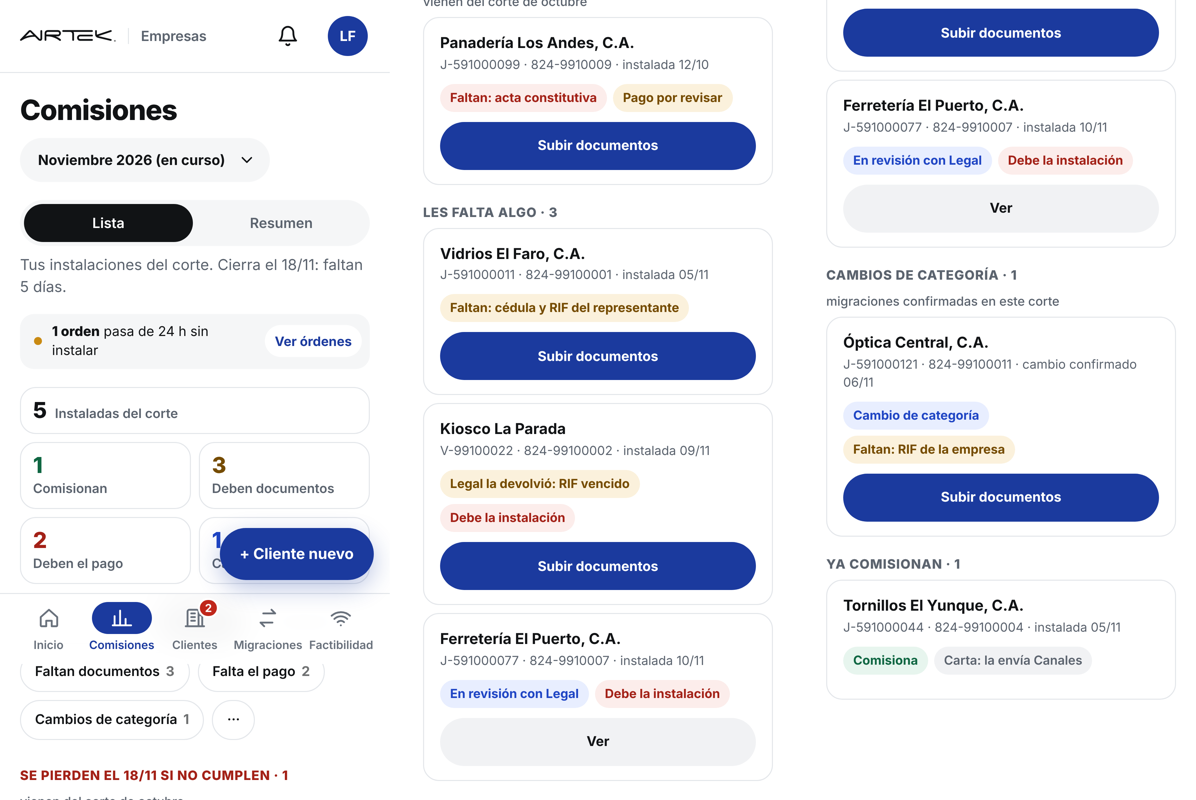
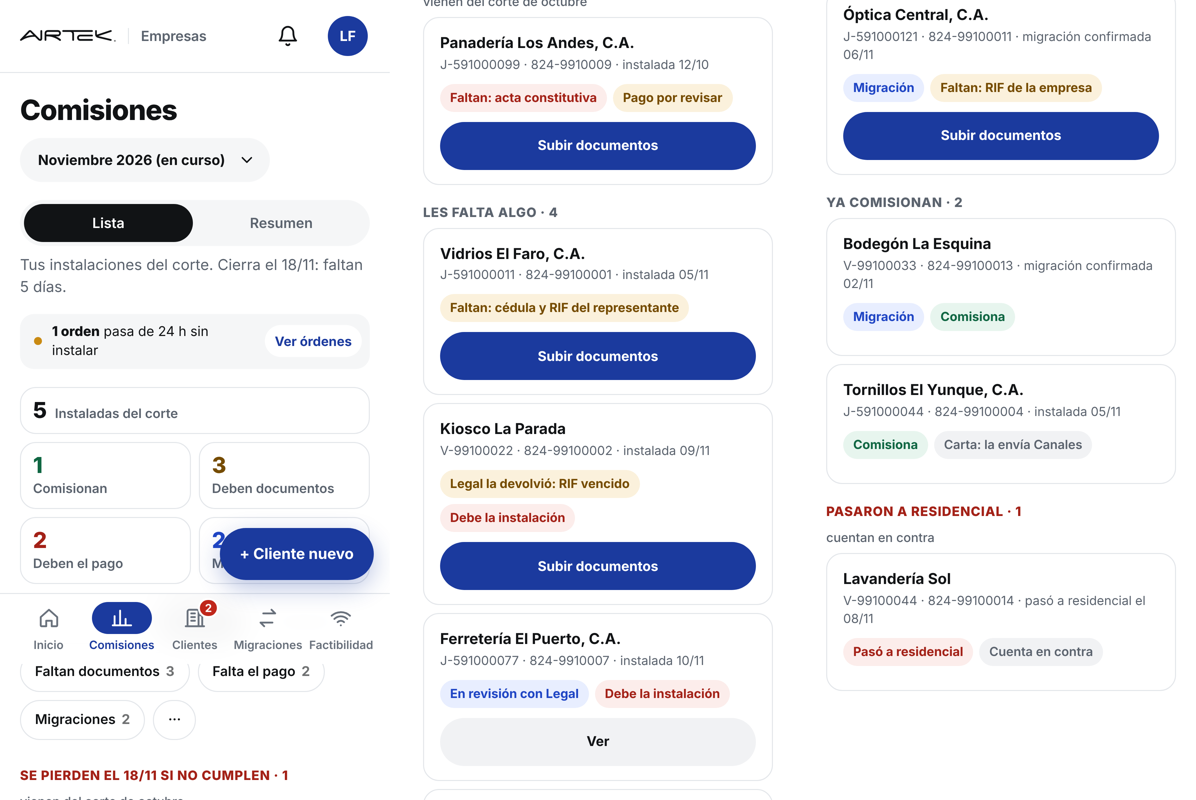
Lote 13/11: partes 11 y 12 (datos de Comisiones, vista del líder, migraciones en la lista y Resumen nuevo) con sus maquetas
Claude-Session: https://claude.ai/code/session_01CcbJae8p8qcayAbu3ytVhN

Changed region(s): [[0.6806, 0.25, 0.99, 0.8438], [0.6806, 0.0, 0.99, 0.2188], [0.0309, 0.875, 0.1547, 0.9062]]

diff --git a/claude/maquetas/obs-13nov/montar-lider-resumen.js b/claude/maquetas/obs-13nov/montar-lider-resumen.js
@@ -20,7 +20,7 @@ const CSS = `
 .zz-f .cl b{display:block;font-size:15px}.zz-f .cl small{display:block;font-size:12.5px;color:var(--text2);margin-top:2px}
 .zz-f .fa{display:flex;flex-wrap:wrap;gap:6px}
 .zz-c{height:28px;padding:0 10px;border-radius:99px;font-size:12.5px;font-weight:700;display:inline-flex;align-items:center;white-space:nowrap}
-.zz-c.am{background:#FBF1DC;color:#754B00}.zz-c.ro{background:#FCEDEB;color:#A32117}.zz-c.ve{background:#E7F5EE;color:#0F6642}.zz-c.az{background:#E8EEFF;color:#1F45C4}.zz-c.gr{background:#F1F2F4;color:var(--text2);font-weight:600}
+.zz-c.am{background:#FBF1DC;color:#754B00}.zz-c.ro{background:#FCEDEB;color:#A32117}.zz-c.ve{background:#E7F5EE;color:#0F6642}.zz-c.az{background:#E8EEFF;color:#1F45C4}.zz-c.mo{background:#F0EBFA;color:#5B3AA6}.zz-c.gr{background:#F1F2F4;color:var(--text2);font-weight:600}
 .zz-f .ac{display:flex;gap:8px;align-items:center}
 .zz-btn{height:40px;padding:0 16px;border-radius:99px;background:#1B3A9E;color:#fff;font-weight:700;font-size:13.5px;border:0;white-space:nowrap}
 .zz-btn.s{background:#F1F2F4;color:var(--text)}
@@ -78,16 +78,18 @@ const FILAS = [
   ['falta', 'Vidrios El Faro, C.A.', 'J-591000011 · 824-99100001 · instalada 05/11', ['<span class="zz-c am">Faltan: cédula y RIF del representante</span>'], 'docs'],
   ['falta', 'Kiosco La Parada', 'V-99100022 · 824-99100002 · instalada 09/11', ['<span class="zz-c am">Legal la devolvió: RIF vencido</span>', '<span class="zz-c ro">Debe la instalación</span>'], 'docs'],
   ['falta', 'Ferretería El Puerto, C.A.', 'J-591000077 · 824-9910007 · instalada 10/11', ['<span class="zz-c az">En revisión con Legal</span>', '<span class="zz-c ro">Debe la instalación</span>'], 'ver'],
-  ['mig', 'Óptica Central, C.A.', 'J-591000121 · 824-99100011 · cambio confirmado 06/11', ['<span class="zz-c az">Cambio de categoría</span>', '<span class="zz-c am">Faltan: RIF de la empresa</span>'], 'docs'],
+  ['falta', 'Óptica Central, C.A.', 'J-591000121 · 824-99100011 · migración confirmada 06/11', ['<span class="zz-c az">Migración</span>', '<span class="zz-c am">Faltan: RIF de la empresa</span>'], 'docs'],
+  ['ok', 'Bodegón La Esquina', 'V-99100033 · 824-99100013 · migración confirmada 02/11', ['<span class="zz-c az">Migración</span>', '<span class="zz-c ve">Comisiona</span>'], ''],
+  ['res', 'Lavandería Sol', 'V-99100044 · 824-99100014 · pasó a residencial el 08/11', ['<span class="zz-c ro">Pasó a residencial</span>', '<span class="zz-c gr">Cuenta en contra</span>'], ''],
   ['ok', 'Tornillos El Yunque, C.A.', 'J-591000044 · 824-99100004 · instalada 05/11', ['<span class="zz-c ve">Comisiona</span>', '<span class="zz-c gr">Carta: la envía Canales</span>'], ''],
 ];
 const fila = (f) => '<div class="zz-f"><div class="cl"><b>' + f[1] + '</b><small>' + f[2] + '</small></div><div class="fa">' + f[3].join('') + '</div><div class="ac">' +
   (f[4] === 'docs' ? '<button class="zz-btn">Subir documentos</button>' : f[4] === 'ver' ? '<button class="zz-btn s">Ver</button>' : '') + '</div></div>';
 const sec = (cls, t, sub, l) => '<div class="zz-sec"><h3 class="' + cls + '">' + t + ' · ' + l.length + (sub ? ' <small>' + sub + '</small>' : '') + '</h3>' + l.map(fila).join('') + '</div>';
-const LIDER = '<div class="zz-nums"><button class="zz-n"><b>5</b><span>Instaladas del corte</span></button><button class="zz-n ve"><b>1</b><span>Comisionan</span></button><button class="zz-n am"><b>3</b><span>Deben documentos</span></button><button class="zz-n ro"><b>2</b><span>Deben el pago</span></button><button class="zz-n az"><b>1</b><span>Cambios de categoría</span></button></div>' +
-  '<div class="zz-bus"><input class="campo" placeholder="Buscar cliente o código" aria-label="Buscar cliente o código"><span class="zz-pl on">Todas <i>6</i></span><span class="zz-pl">Comisionan <i>1</i></span><span class="zz-pl">Faltan documentos <i>3</i></span><span class="zz-pl">Falta el pago <i>2</i></span><span class="zz-pl">Cambios de categoría <i>1</i></span><span class="zz-pl" aria-label="Más">···</span></div>' +
+const LIDER = '<div class="zz-nums"><button class="zz-n"><b>5</b><span>Instaladas del corte</span></button><button class="zz-n ve"><b>1</b><span>Comisionan</span></button><button class="zz-n am"><b>3</b><span>Deben documentos</span></button><button class="zz-n ro"><b>2</b><span>Deben el pago</span></button><button class="zz-n az"><b>2</b><span>Migraciones</span></button></div>' +
+  '<div class="zz-bus"><input class="campo" placeholder="Buscar cliente o código" aria-label="Buscar cliente o código"><span class="zz-pl on">Todas <i>8</i></span><span class="zz-pl">Comisionan <i>1</i></span><span class="zz-pl">Faltan documentos <i>3</i></span><span class="zz-pl">Falta el pago <i>2</i></span><span class="zz-pl">Migraciones <i>2</i></span><span class="zz-pl" aria-label="Más">···</span></div>' +
   sec('ro', 'Se pierden el 18/11 si no cumplen', 'vienen del corte de octubre', FILAS.filter((f) => f[0] === 'pierde')) +
-  sec('', 'Les falta algo', '', FILAS.filter((f) => f[0] === 'falta')) + sec('', 'Cambios de categoría', 'migraciones confirmadas en este corte', FILAS.filter((f) => f[0] === 'mig')) + sec('', 'Ya comisionan', '', FILAS.filter((f) => f[0] === 'ok'));
+  sec('', 'Les falta algo', '', FILAS.filter((f) => f[0] === 'falta')) + sec('', 'Ya comisionan', '', FILAS.filter((f) => f[0] === 'ok')) + sec('ro', 'Pasaron a residencial', 'cuentan en contra', FILAS.filter((f) => f[0] === 'res'));
 const flecha = (up, t) => '<span class="zz-d ' + (up ? 'up' : 'dn') + '">' + (up ? '↑' : '↓') + ' ' + t + '</span>';
 const RES = '<div class="zz-r">' +
   '<div class="zz-gan"><div class="t">🏆 Ganadores de octubre <span style="font-weight:500;color:var(--text2)">· corte cerrado, por equipo</span></div><div><small>Ventas corporativas</small><b>Rosa Paredes</b><span>15 instaladas · 15 comisionan</span></div><div><small>Canales de atención</small><b>Pedro Salas</b><span>4 instaladas</span></div><div><small>Aliado comercial</small><b>Conexión Norte</b><span>2 instaladas</span></div></div>' +
@@ -100,9 +102,9 @@ const RES = '<div class="zz-r">' +
     '</div><div class="zz-ley"><span><i style="background:#0F6642"></i>Comisiona</span><span><i style="background:#8FD1AE"></i>Instalada, falta legal o pago</span></div></div>' +
   '<div class="zz-box"><h3>Equipos</h3><p class="sub">Este corte contra octubre, al mismo día del corte</p><div class="zz-eq">' +
     [['Ventas corporativas', 44, 4, 48, '↓ 8 %', 'dn'], ['Canales de atención', 1, 0, 6, '↓ 83 %', 'dn']].map((e) => '<div class="fi"><div class="h"><b>' + e[0] + '</b><span><b>' + e[1] + '</b> · octubre ' + e[3] + ' <span class="zz-d ' + e[5] + '">' + e[4] + '</span></span></div><div class="zz-bar"><i style="flex:' + e[2] + ';background:#1F45C4"></i><i style="flex:' + (e[1] - e[2]) + ';background:#A9BCF5"></i><i style="flex:' + Math.max(0, 60 - e[1]) + '"></i></div><div class="zz-bar prev"><i style="flex:' + e[3] + '"></i><i style="flex:' + (60 - e[3]) + ';background:none"></i></div></div>').join('') +
-    '<div class="fi zz-sep"><div class="h"><b>Aliados comerciales</b><span><b>12</b> · octubre 7 <span class="zz-d up">↑ 71 %</span></span></div><div class="zz-bar"><i style="flex:12;background:#5B3AA6"></i><i style="flex:48"></i></div><div class="zz-bar prev"><i style="flex:7"></i><i style="flex:53;background:none"></i></div></div>' +
+    '<div class="fi zz-sep"><div class="h"><b>Aliados comerciales</b><span><b>12</b> · octubre 7 <span class="zz-d up">↑ 71 %</span></span></div><div class="zz-bar"><i style="flex:12;background:#4B5563"></i><i style="flex:48"></i></div><div class="zz-bar prev"><i style="flex:7"></i><i style="flex:53;background:none"></i></div></div>' +
     '<div class="fi"><div class="h"><b>Sin dueño</b><span><b>9</b> · no comisionan hasta asignarlas</span></div></div>' +
-    '</div><div class="zz-ley"><span><i style="background:#1F45C4"></i>Comisiona</span><span><i style="background:#A9BCF5"></i>Pendiente</span><span><i style="background:#5B3AA6"></i>Aliados</span><span><i style="background:#B8BEC6"></i>Octubre al mismo día</span></div></div></div>' +
+    '</div><div class="zz-ley"><span><i style="background:#1F45C4"></i>Comisiona</span><span><i style="background:#A9BCF5"></i>Pendiente</span><span><i style="background:#4B5563"></i>Aliados</span><span><i style="background:#B8BEC6"></i>Octubre al mismo día</span></div></div></div>' +
   '<div class="zz-g3"><div class="zz-box"><span class="zz-tabs2"><span class="on">Ritmo del corte</span><span>Cortes cerrados</span></span><h3>Instaladas por corte</h3><p class="sub">Ventas corporativas, día a día, contra los cortes anteriores</p>' +
     '<svg viewBox="0 0 420 190" style="width:100%;height:auto;display:block" role="img" aria-label="Ritmo del corte"><g stroke="#ECEEF1">' + [20, 60, 100, 140].map((y) => '<line x1="30" x2="410" y1="' + y + '" y2="' + y + '"/>').join('') + '</g>' +
     '<g font-size="10" fill="#69717C">' + [['60', 20], ['40', 60], ['20', 100], ['0', 140]].map((t) => '<text x="4" y="' + (t[1] + 3) + '">' + t[0] + '</text>').join('') + '<text x="30" y="160">día 1</text><text x="250" y="160">hoy, día 26</text><text x="380" y="160">día 31</text></g>' +

diff --git a/claude/maquetas/obs-13nov/montar-comisiones.js b/claude/maquetas/obs-13nov/montar-comisiones.js
@@ -52,12 +52,23 @@ const CH = '<svg class="i" viewBox="0 0 24 24"><path d="M6 9l6 6 6-6"/></svg>';
       const w = document.createElement('div'); w.className = 'zz-cab'; cab.before(w); w.appendChild(cab);
       const nom = cab.querySelector('.tx'); const btn = '<span class="zz-env">' + window.Comun.ic('wa') + 'Enviar pendientes' + (o.ultimo && l === 'Rosa Paredes' ? ' <small>· ayer, Marcos</small>' : '') + '</span>';
       nom.insertAdjacentHTML('afterend', btn); });
+    // Migraciones dentro de la lista del líder, con etiqueta azul "Migración", y el filtro Migraciones
+    if(o.mig){ const g = document.querySelector('.cx-grupo.abierto') || document.querySelector('.cx-grupo'); const fila = g && g.querySelector('.cx-fila2');
+      if(fila){ const sub = Array.from(g.querySelectorAll('.sub-bloque')).find((x) => /Instaladas en este corte/.test(x.textContent)) || fila;
+        const mk = (nom, sub2, tag, tx, pts) => { const c = fila.cloneNode(true); c.querySelector('.cx-lf-c b').textContent = nom; c.querySelector('.cx-lf-c small').textContent = sub2;
+          let et = c.querySelector('.cx-et'); if(!et){ et = document.createElement('span'); et.className = 'cx-et'; c.querySelector('.cx-lf-c').appendChild(et); } et.innerHTML = tag;
+          c.querySelector('.cx-lf-p small').textContent = tx; c.querySelectorAll('.cx-3p i').forEach((i, k) => { i.className = pts[k] ? 'ok' : 'no'; }); return c; };
+        const a = mk('Óptica Central, C.A.', 'J-591000121 · 824-99100011', '<span class="chip azul">Migración</span>', 'Falta legal', [0, 1, 1]);
+        const b = mk('Bodegón La Esquina', 'V-99100033 · 824-99100013', '<span class="chip azul">Migración</span>', 'Comisiona', [1, 1, 1]);
+        sub.after(a); a.after(b); }
+      const fil = document.querySelector('#filtros'); if(fil){ const m = document.createElement('button'); m.type = 'button'; m.className = (fil.querySelector('button:not(.on)') || fil.firstElementChild).className; m.innerHTML = 'Migraciones <span style="opacity:.6">12</span>'; const mas = Array.from(fil.children).find((x) => /Más filtros/.test(x.textContent)); fil.insertBefore(m, mas || null); }
+      const seg = document.querySelectorAll('#segs > *')[1]; if(seg) seg.style.display = 'none'; }
   }, Object.assign({ CH, WA: '<svg class="i" viewBox="0 0 24 24"><path d="M4 20l1.3-3.9A8 8 0 1 1 8 19z"/></svg>' }, o));
   for(const [u, pin, suf] of [['marcos', '482913', ''], ['elena', '315806', '-analista']]){
     const { ctx } = await contexto(nav, PC); const p = await entrar(ctx, u, pin);
     const ir = async () => { await p.goto(H + 'comisiones.html'); await p.waitForSelector('.cx-grupo', { timeout: 15000 }); await p.waitForTimeout(800); await p.addStyleTag({ content: CSS }); };
     await ir(); await tomar(p, '10-comisiones-hoy' + suf);
-    await armar(p, { mos: '', ultimo: true }); await tomar(p, '11-comisiones-filtros' + suf);
+    await armar(p, { mos: '', ultimo: true, mig: !suf }); await tomar(p, '11-comisiones-filtros' + suf);
     if(!suf){
       await ir(); await armar(p, { pop: 'eq' }); await tomar(p, '11b-comisiones-equipo');
       await ir(); await armar(p, { pop: 'fe' }); await tomar(p, '11c-comisiones-fechas');

diff --git a/claude/lote-13nov.md b/claude/lote-13nov.md
@@ -69,6 +69,27 @@ Maquetas montadas sobre la app real del simulador: `claude/maquetas/obs-13nov/im
 ## 10. Teléfono (sin maqueta nueva)
 - Hoy en teléfono el documento queda debajo de toda la lista. Propuesta: la hoja muestra la lista; tocar un documento abre el documento a todo el alto con "← Documentos" arriba y Devolver / Bien abajo; los paneles de Devolver y Es otro documento suben como hoja desde abajo.
 
+## 11. Comisiones: datos que están mal (servidor; hallazgos en `claude/consejo-comisiones-13nov.md`)
+Primero respaldar en `supabase/migraciones/` las funciones de Comisiones que hoy solo viven en la base (`comisiones_lista`, `comisiones_corte`, `comisiones_resumen`, `comisiones_detalle`, `com_base`, `migraciones_corte`, `pendientes_lider`), tal como están, en un commit aparte. Después, como migraciones nuevas:
+1. `comisiones_resumen` filtrado por cargo: el líder solo recibe lo suyo (sus números, su posición en el ranking sin los demás, sin Monto de la empresa ni Cartas de otros).
+2. A la Lista del líder no le llegan las instalaciones de aliados (`comisiones_lista` líneas 16-19); no se suman a sus números.
+3. La lista trae por fila `falta` (qué documentos, por nombre) y `devuelto` (qué devolvió Legal y por qué), y el estado del pago (debe la instalación / pago por revisar). Medir el tiempo de carga antes y después.
+4. Resumen con poblaciones separadas: Ventas corporativas, Canales, Aliados comerciales y Sin dueño (cuarto grupo, fuera de las tarjetas). Comisionan + esperan = instaladas de esa población. Equipos y tarjetas contra el corte anterior **al mismo día del corte**, con el % de variación calculado en el servidor.
+5. "Instaladas por corte": serie diaria acumulada del corte actual, el anterior y el promedio de 3; y cortes cerrados con Comisionaron / Pasaron al siguiente / Se perdieron (sin mezclar lo del corte anterior en "cumplen").
+6. Por instalar en **días de calendario** desde la primera orden de la venta, solo órdenes del corte: Al día (< 1), Atrasadas (1 a 3), Muy atrasadas (4 a 9), Perdidas (10 o más, o creadas antes del corte). "Perdida" solo se muestra; no cierra la orden.
+7. Monto (Dinero del corte) incluye las migraciones que pagan: Asegurado · En juego · Última oportunidad.
+8. Dueños sin perfil ya no caen en 'corporativas' por defecto (`com_base` línea 8): van a Sin dueño. El ganador del mes es por equipo y solo entre personas con perfil.
+9. Ranking de aliados por aliado normalizado (`normalizeStr`), no por el texto del instalador.
+- Probar contra los cortes conocidos (septiembre 46/41, octubre 83/75 y noviembre): el pago no cambia, solo cómo se agrupa y se muestra. Si algún total de pago cambia, parar y avisar.
+
+## 12. Comisiones: vista del líder, migraciones en la lista y Resumen nuevo (maquetas 20, 20b, 21, 21b y 11)
+- **Líder, PC (20):** subtítulo "Tus instalaciones del corte. Cierra el 18/11: faltan N días."; cinco números tocables (Instaladas del corte · Comisionan · Deben documentos · Deben el pago · Migraciones); sin Equipo, sin Por dueño | Por fecha, sin Desde/Hasta, sin grupo con su nombre; filtros: buscador · Todas · Comisionan · Faltan documentos · Falta el pago · Migraciones · ··· (Fechas, Del corte anterior). Lista por secciones: Se pierden el 18/11 si no cumplen (rojo) · Les falta algo · Ya comisionan · Pasaron a residencial (rojo, cuentan en contra). Cada fila: cliente y "código · instalada dd/mm"; pastillas de qué falta por nombre ("Faltan: cédula y RIF del representante", "Legal la devolvió: RIF vencido", "Debe la instalación", "Pago por revisar", "En revisión con Legal"); carta en gris "Carta: la envía Canales"; botón **Subir documentos** solo si le toca a él, "Ver" si está en revisión.
+- **Líder, teléfono (20b):** números en dos columnas (Instaladas a todo el ancho), buscador fijo arriba al bajar, una tarjeta por cliente con las pastillas envueltas y Subir documentos a todo el ancho (48 px); "+ Cliente nuevo" flotante sobre la barra de abajo.
+- **Migraciones (aprobado 13/11):** dentro de la lista, en la sección que les toque, con la etiqueta azul **"Migración"**; el número y el filtro se llaman "Migraciones" (no "Cambios de categoría"). Las que pasaron a residencial: etiqueta roja "Pasó a residencial". Lo mismo en la lista del administrador (11): filas con "Migración" dentro del grupo de cada líder y la pastilla **Migraciones · N** en los filtros; la tarjeta grande "Cambios de categoría" se quita. La pantalla Migraciones se queda para confirmar cambios.
+- **Resumen (21 PC, 21b teléfono):** banda clara "Ganadores de octubre · corte cerrado, por equipo" con 3 bloques iguales (Ventas corporativas, Canales de atención, Aliado comercial), apilados en teléfono. Tarjetas solo de Ventas corporativas con flecha y %: Instaladas del corte · Ya comisionan "N de M" con barrita · Órdenes atrasadas · Días de orden a instalación (si sube, rojo). Ranking con pestañas Líderes | Canales | Aliados comerciales, "11 instaladas · 1 comisiona", fondo de barra gris claro. Equipos: dos barras por equipo (este corte y octubre al mismo día) con %, Aliados separado por línea punteada y en gris oscuro, Sin dueño aparte. Instaladas por corte con "Ritmo del corte" (Chart.js, línea) y "Cortes cerrados". Órdenes por instalar con los 3 tramos y Perdidas en renglón rojo aparte. Dinero del corte: "480 $ posibles" en una barra Asegurado · En juego · Última oportunidad. Los drawers de las tarjetas se quedan como están.
+- **Resumen del líder:** sus números contra el corte pasado, su posición ("Vas 3.º de 7"), lo que le falta para cobrar y lo que pierde el 18; sin Equipos, Monto de la empresa ni Cartas.
+- El morado queda para Aliado (como ya está en la lista); Migración es azul.
+
 ## Respuestas sin cambio
 - La abogada (Reina) ya tiene el mismo visor, en solo lectura, con "Tiene un problema" por documento y "Terminar y enviar" / "Empecé el contrato".
 
